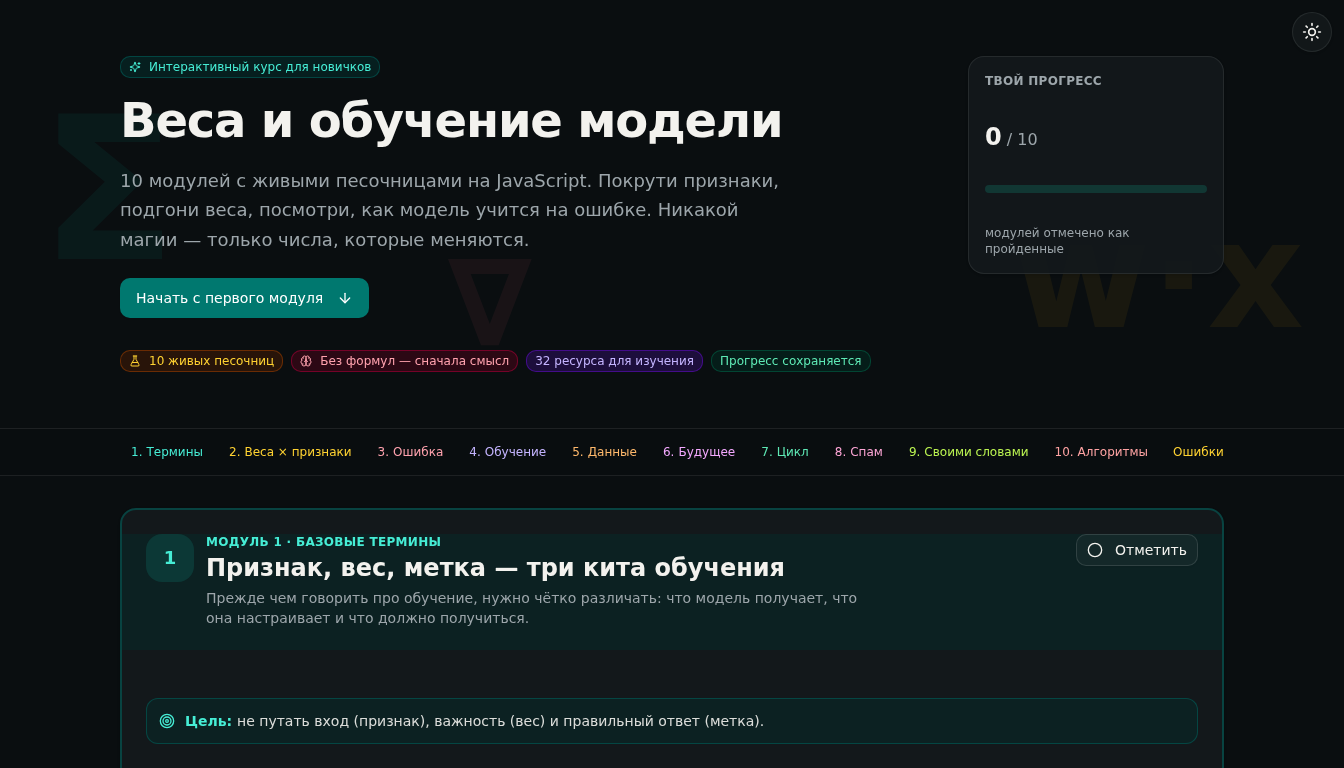
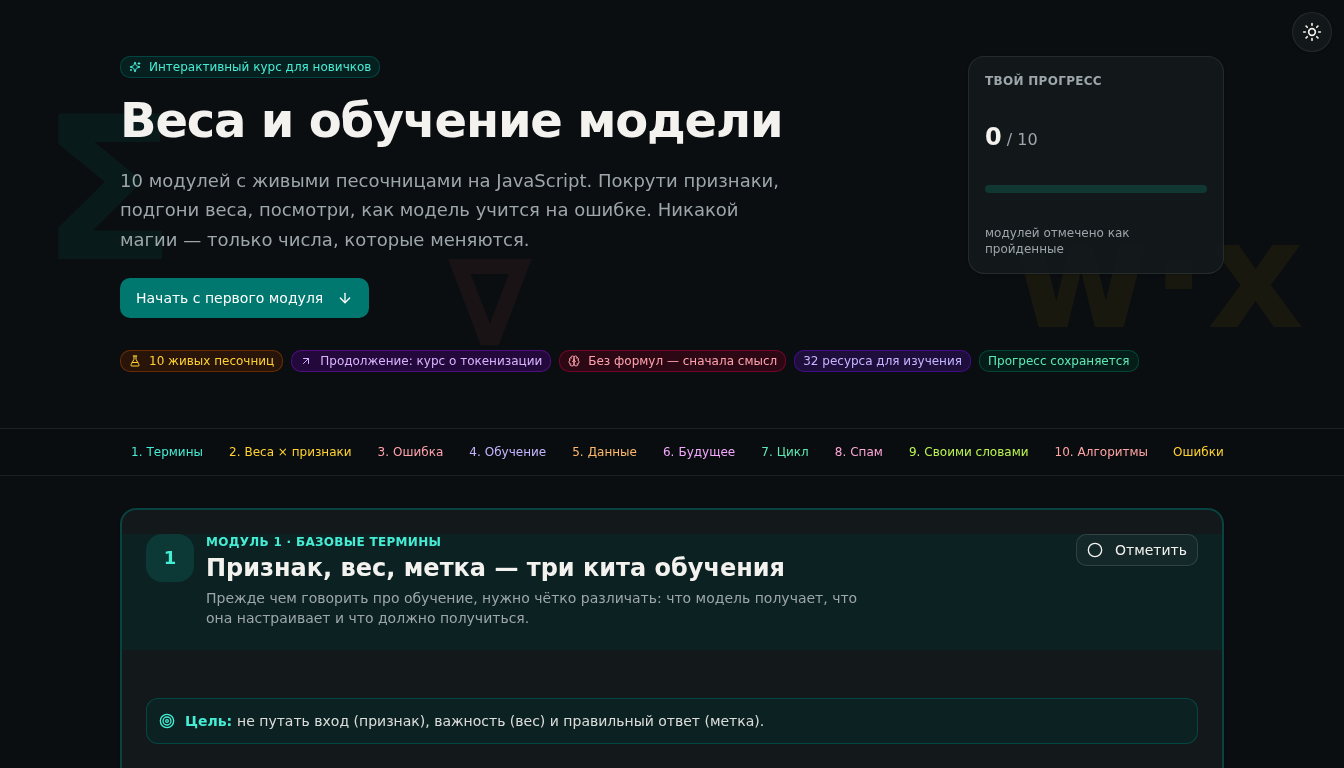
feat: add tokenizatsiya-app project card; refresh ml-s-nula screenshot
- New project: tokenizatsiya-app (продолжение «ML с нуля», 10 модулей о токенизации)
- Card screenshot 1344x768 with dark theme: hero + module 1 sandbox
- Favicon 512x512 added to both /favicons/ and /assets/img/favicons/
- Refresh ml-s-nula.png: now shows purple badge-link to tokenizatsiya-app

Changed region(s): [[0.2188, 0.4375, 0.8438, 0.5]]

diff --git a/_projects/tokenizatsiya-app.md b/_projects/tokenizatsiya-app.md
@@ -1,0 +1,80 @@
+---
+layout: page
+title: "Токенизация — Как машины читают текст"
+description: "Интерактивный курс-продолжение «ML с нуля»: 10 модулей о токенизации с живыми песочницами BPE, WordPiece, SentencePiece и byte-level BPE — без формул, только смысл"
+img: assets/img/projects/tokenizatsiya-app.png
+icon: favicons/tokenizatsiya-app.png
+importance: 1
+category: ии-мл
+demo: https://tokenizatsiya-app.vercel.app/
+related_publications: false
+---
+
+Интерактивный курс о том, как текст превращается в кусочки (токены) и числа, которыми оперируют GPT, BERT и любые языковые модели. Десять модулей с живыми песочницами прямо в браузере: попробуй BPE на собственном тексте, разбери предложение через WordPiece, посмотри, как SentencePiece и byte-level BPE справляются с эмодзи и китайским. Это продолжение курса «ML с нуля» — там была общая теория, здесь — глубокое погружение в один конкретный слой любого LLM.
+
+### О чём этот курс
+
+Токенизация — первый и самый недооценённый шаг в работе любой языковой модели. Прежде чем GPT-4 сможет «понять» запрос, текст должен быть разрезан на кусочки и превращён в числа. От того, как именно это сделано, зависит всё: что модель видит как единое целое, где она теряет информацию, какие символы она вообще не может обработать. Этот курс показывает токенизацию изнутри — не через формулы, а через интерактив: введи свой текст, переключи алгоритм, посмотри, как меняется разбор.
+
+### Модули курса
+
+1. **Введение** — что такое токенизация и зачем она нужна: первый шаг между текстом и моделью
+2. **Уровни токенизации** — символы, слова, подслова: три уровня разбиения и их компромиссы
+3. **Словарь и ID токенов** — как токены превращаются в числа: словарь, OOV, числовое представление
+4. **Byte Pair Encoding** — BPE: жадное слияние частых пар, основа GPT-2 и GPT-3
+5. **WordPiece** — лучший друг BERT: жадный поиск самого вероятного подслова
+6. **Специальные токены** — `[CLS]`, `[SEP]`, `[PAD]`, `[MASK]`: зачем они нужны моделям
+7. **Песочница** — сравни 4 токенизатора на любом тексте: попробуй сам
+8. **Модели** — как токенизацию делают GPT-2, BERT, T5, Llama: реальные примеры и словари
+9. **Что дальше** — roadmap: что изучать после основ токенизации
+10. **SentencePiece и byte-level BPE** — продвинутые токенизаторы: почему Llama и GPT-4 используют именно их
+
+### Что внутри
+
+- **10 живых песочниц** на React + TypeScript — каждая концепция сопровождается интерактивом
+- **4 алгоритма токенизации** реализованы прямо в браузере: word, char, BPE, WordPiece
+- **Продвинутые песочницы** для SentencePiece (unigram) и byte-level BPE с UTF-8 визуализацией байт
+- **Прогресс сохраняется** локально в `localStorage` — можно вернуться и продолжить
+- **Светлая и тёмная тема** с плавной инверсией цветов и переключателем в углу
+- **Сравнительные таблицы** всех 4 подходов: предразбиение, базовый словарь, обратимость, `<UNK>`
+- **Пресеты текста** — русский, английский, китайский, эмодзи, смесь, без пробелов
+- **Адаптивный дизайн** — работает на мобильных и десктопах
+
+### Стек технологий
+
+- **Frontend**: Next.js 16 (App Router, Turbopack), React 19, TypeScript
+- **Стили**: Tailwind CSS 4 + shadcn/ui, токены тем через CSS-переменные
+- **Иконки**: lucide-react
+- **Хранилище прогресса**: `localStorage` (без серверной части)
+- **Деплой**: Vercel
+
+### Попробовать
+
+👉 [Открыть Токенизация]({{ page.demo }}){: .project-link}
+
+---
+
+**AZAR**
+
+<style>
+.project-link {
+  display: inline-flex;
+  align-items: center;
+  gap: 6px;
+  padding: 8px 20px;
+  background: transparent;
+  color: #c084fc !important;
+  border: 1.5px solid #9333ea;
+  border-radius: 8px;
+  text-decoration: none !important;
+  font-weight: 500;
+  font-size: 0.875rem;
+  letter-spacing: 0.01em;
+  transition: all 0.2s ease;
+}
+.project-link:hover {
+  background: #9333ea;
+  color: #fff !important;
+  border-color: #9333ea;
+}
+</style>
